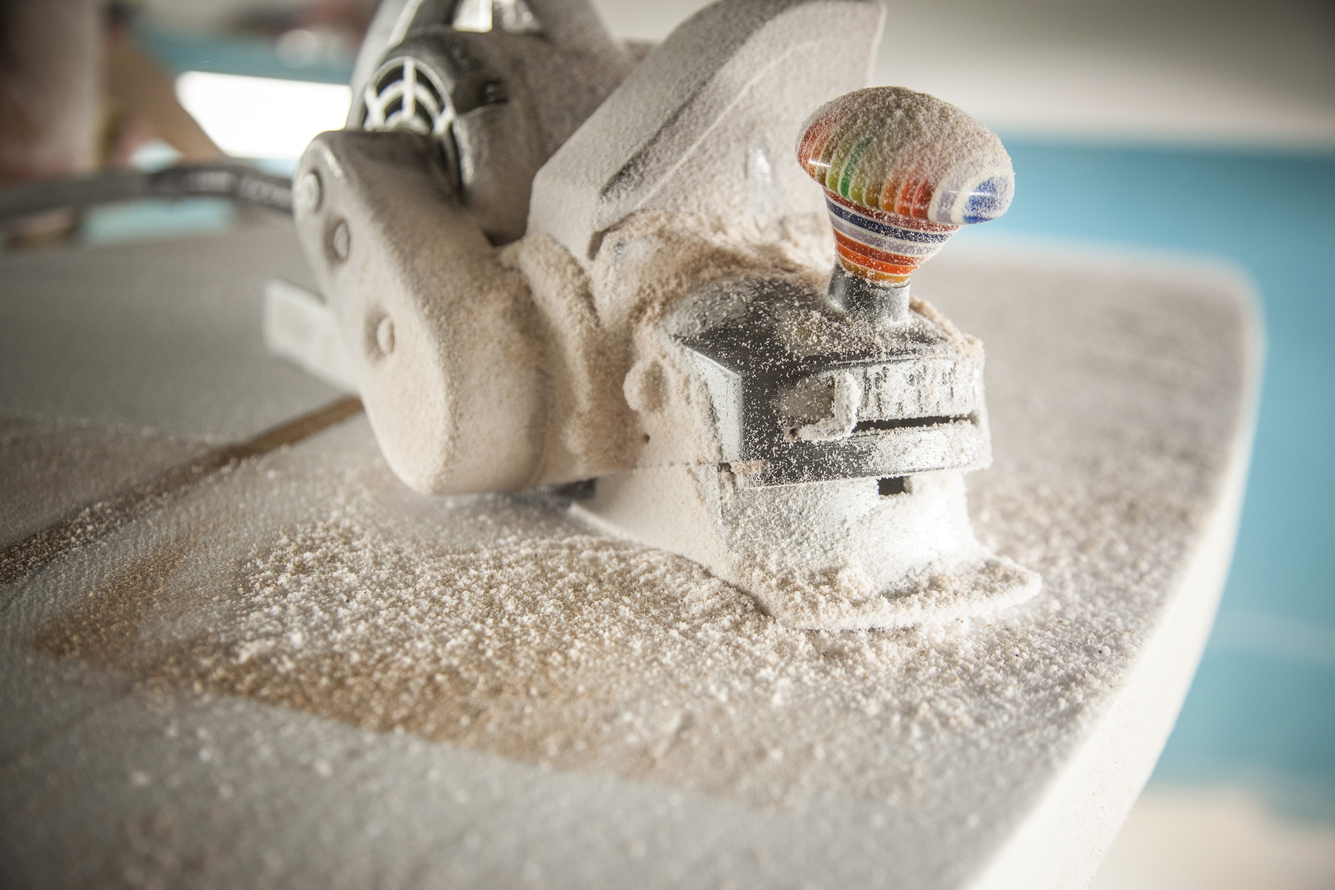
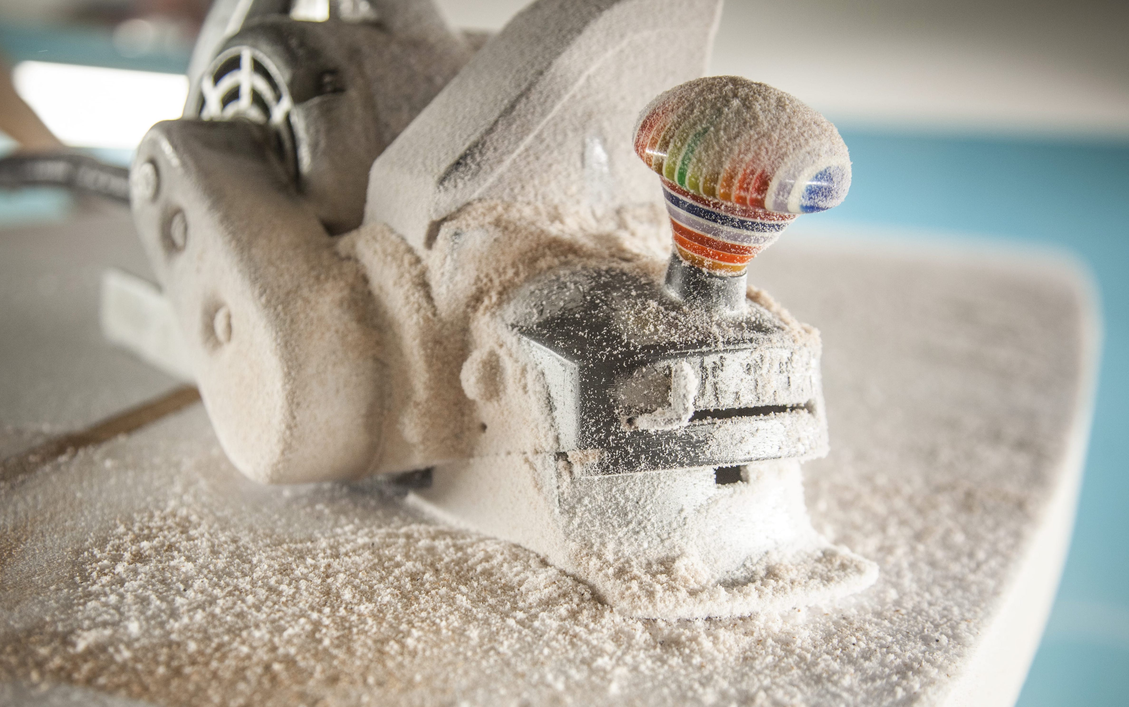
size redux

diff --git a/index.html b/index.html
@@ -131,7 +131,7 @@
         </div>
     </nav>
     <div class="page-header header-filter">
-        <div class="page-header-image" style="background-image: url('assets/img/shape-min.jpg');"></div>
+        <div class="page-header-image" style="background-image: url('assets/img/Mystic.jpg');"></div>
         <div class="content-center">
             <div class="container">
                 <div class="row">
